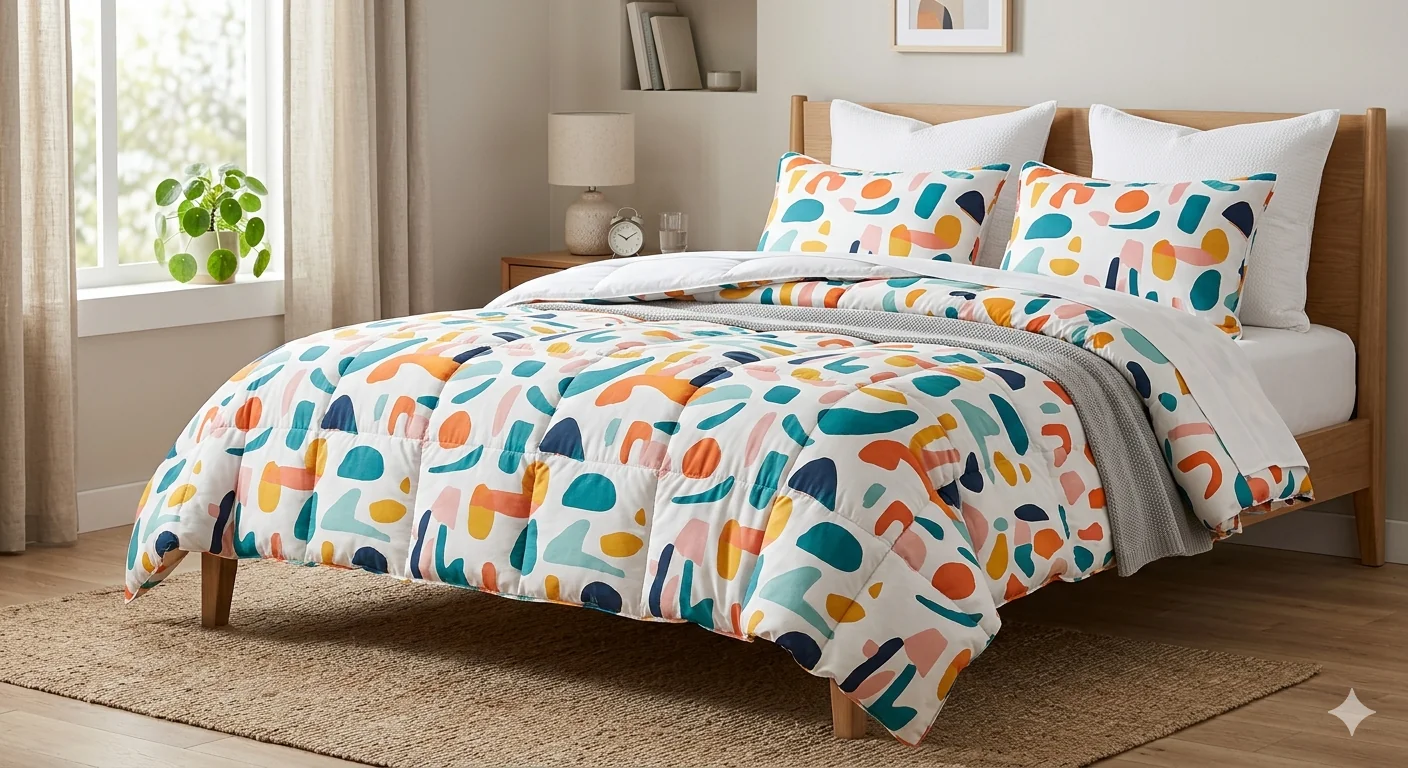
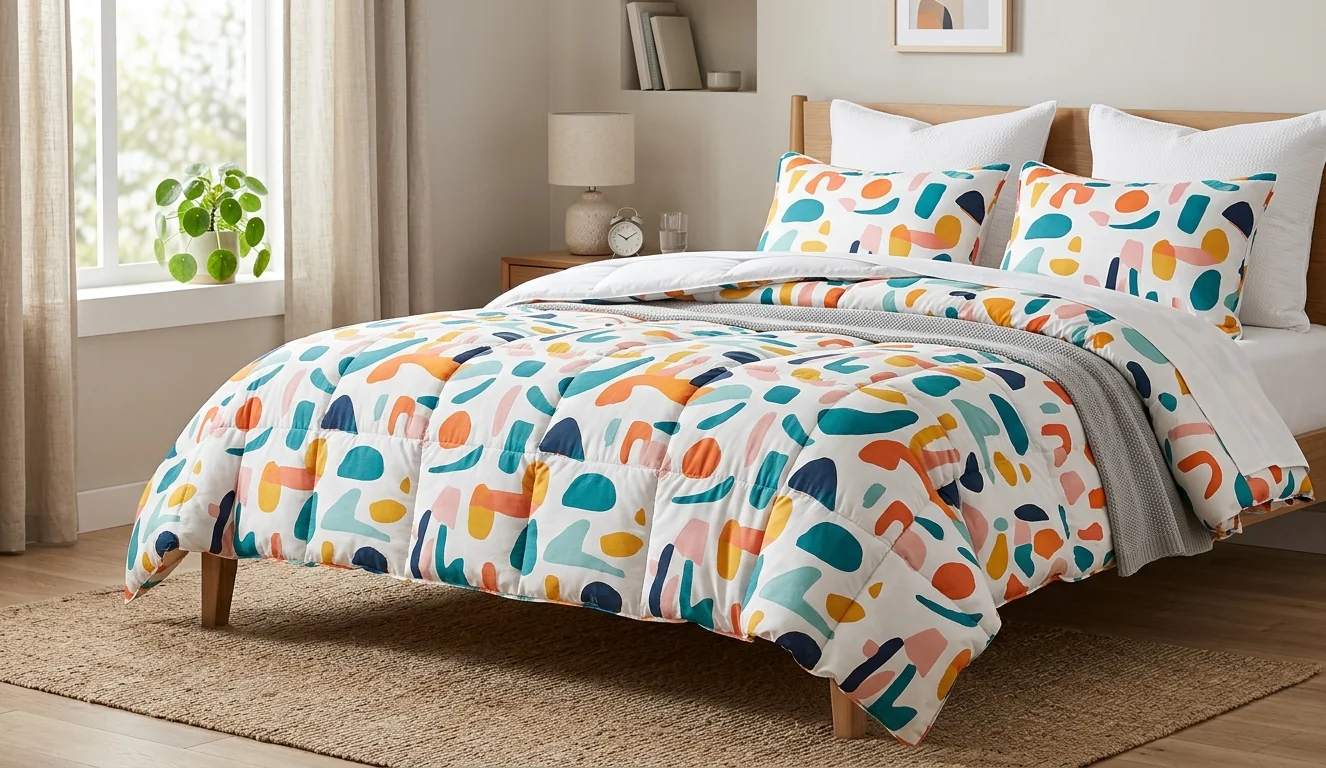
main

diff --git a/hometextiles.html b/hometextiles.html
@@ -1103,7 +1103,7 @@
 
                                 <!-- IMAGE -->
                                 <div class="order-1 h-[420px] md:order-2 rounded-2xl overflow-hidden shadow-lg">
-                                    <img src="./public/images/hmt22.webp"
+                                    <img src="./public/images/hmt23.webp"
                                         class="w-full h-full object-cover" loading="lazy" decoding="async"
                                         fetchpriority="low" alt="Down Alternative Comforter Sets" />
                                 </div>
